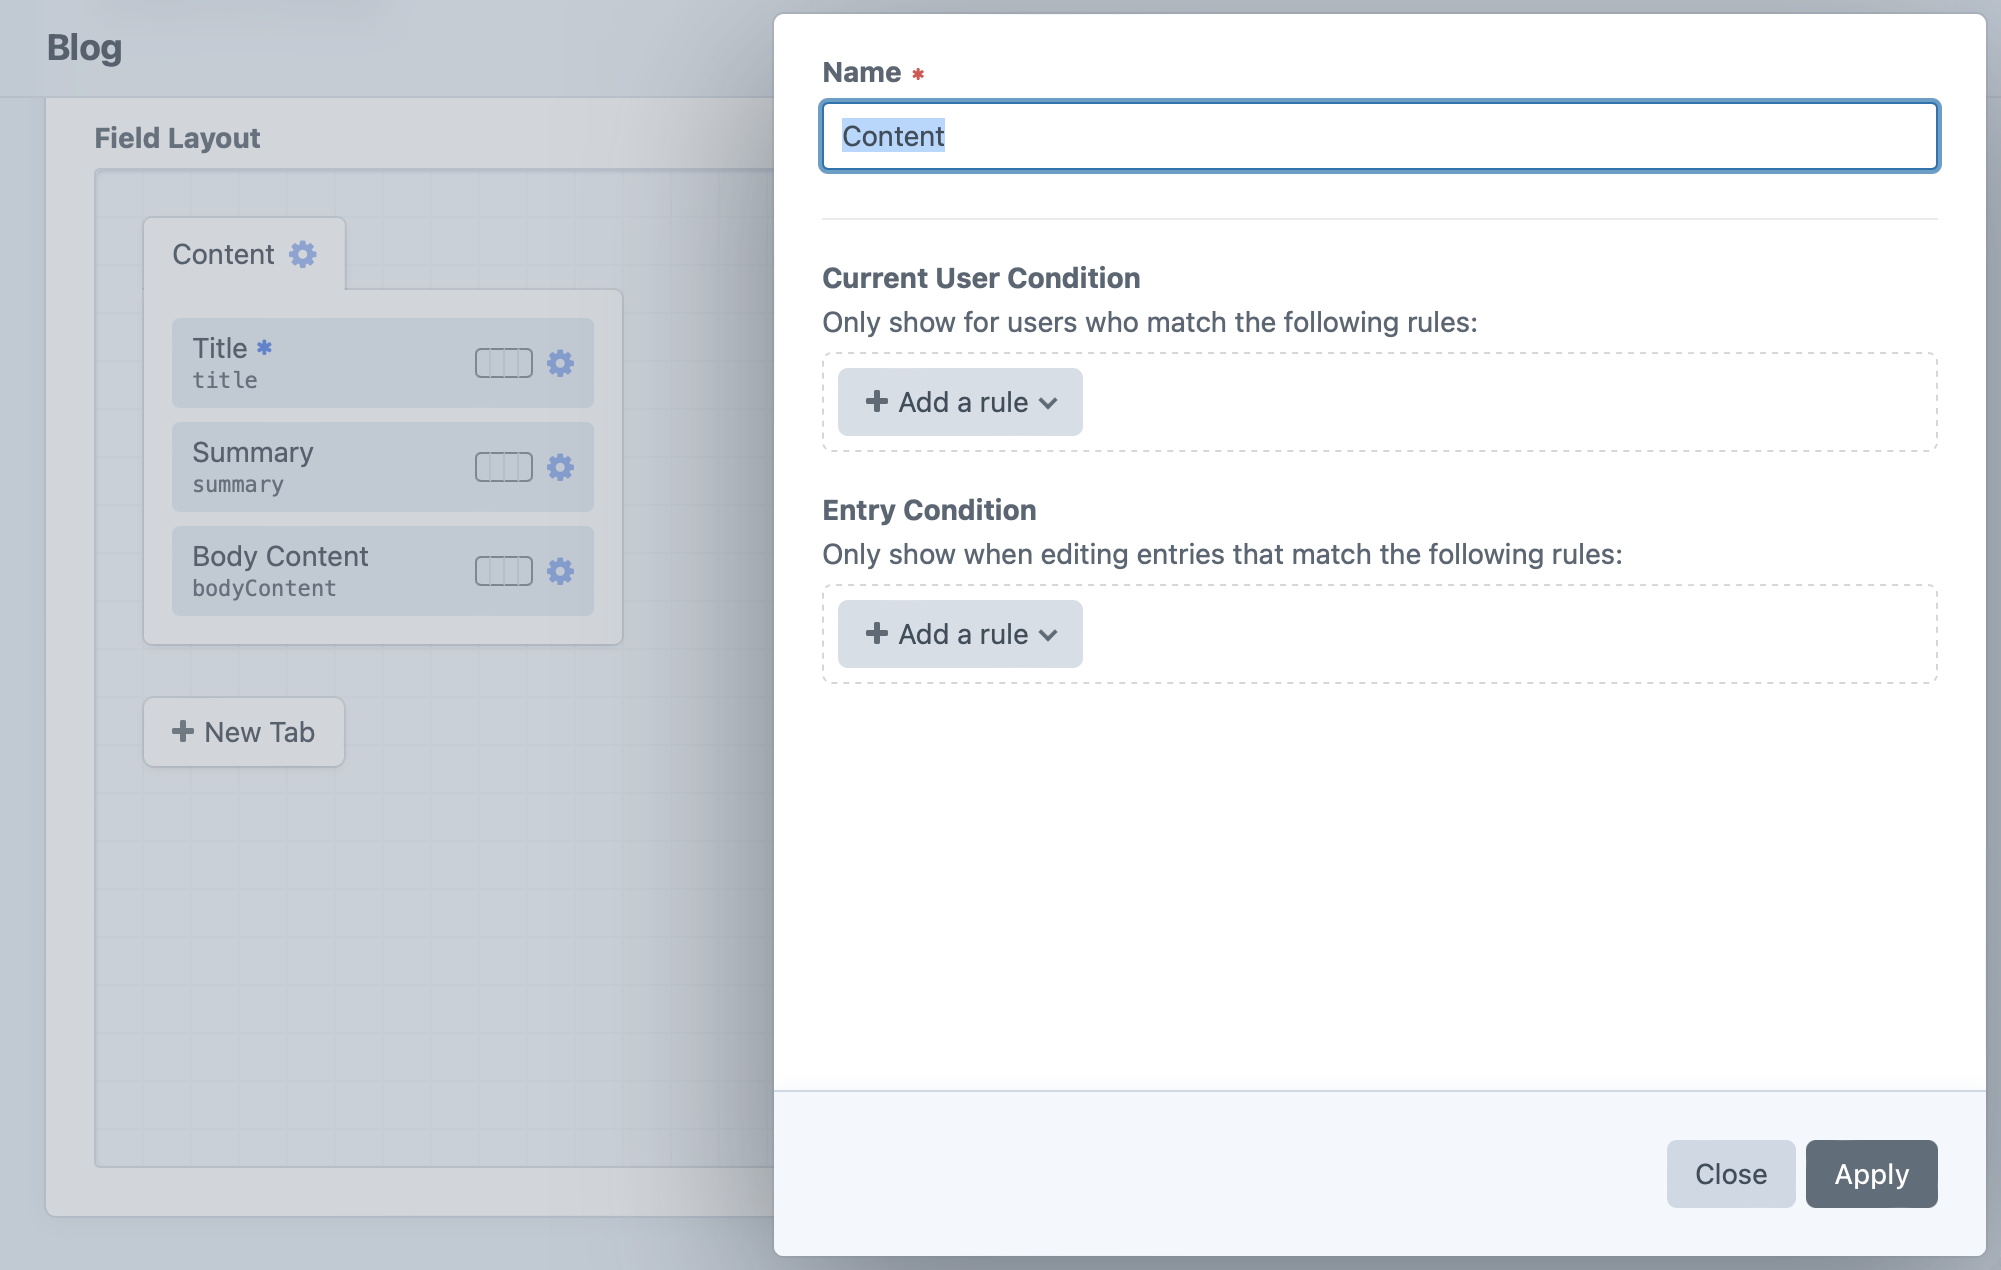
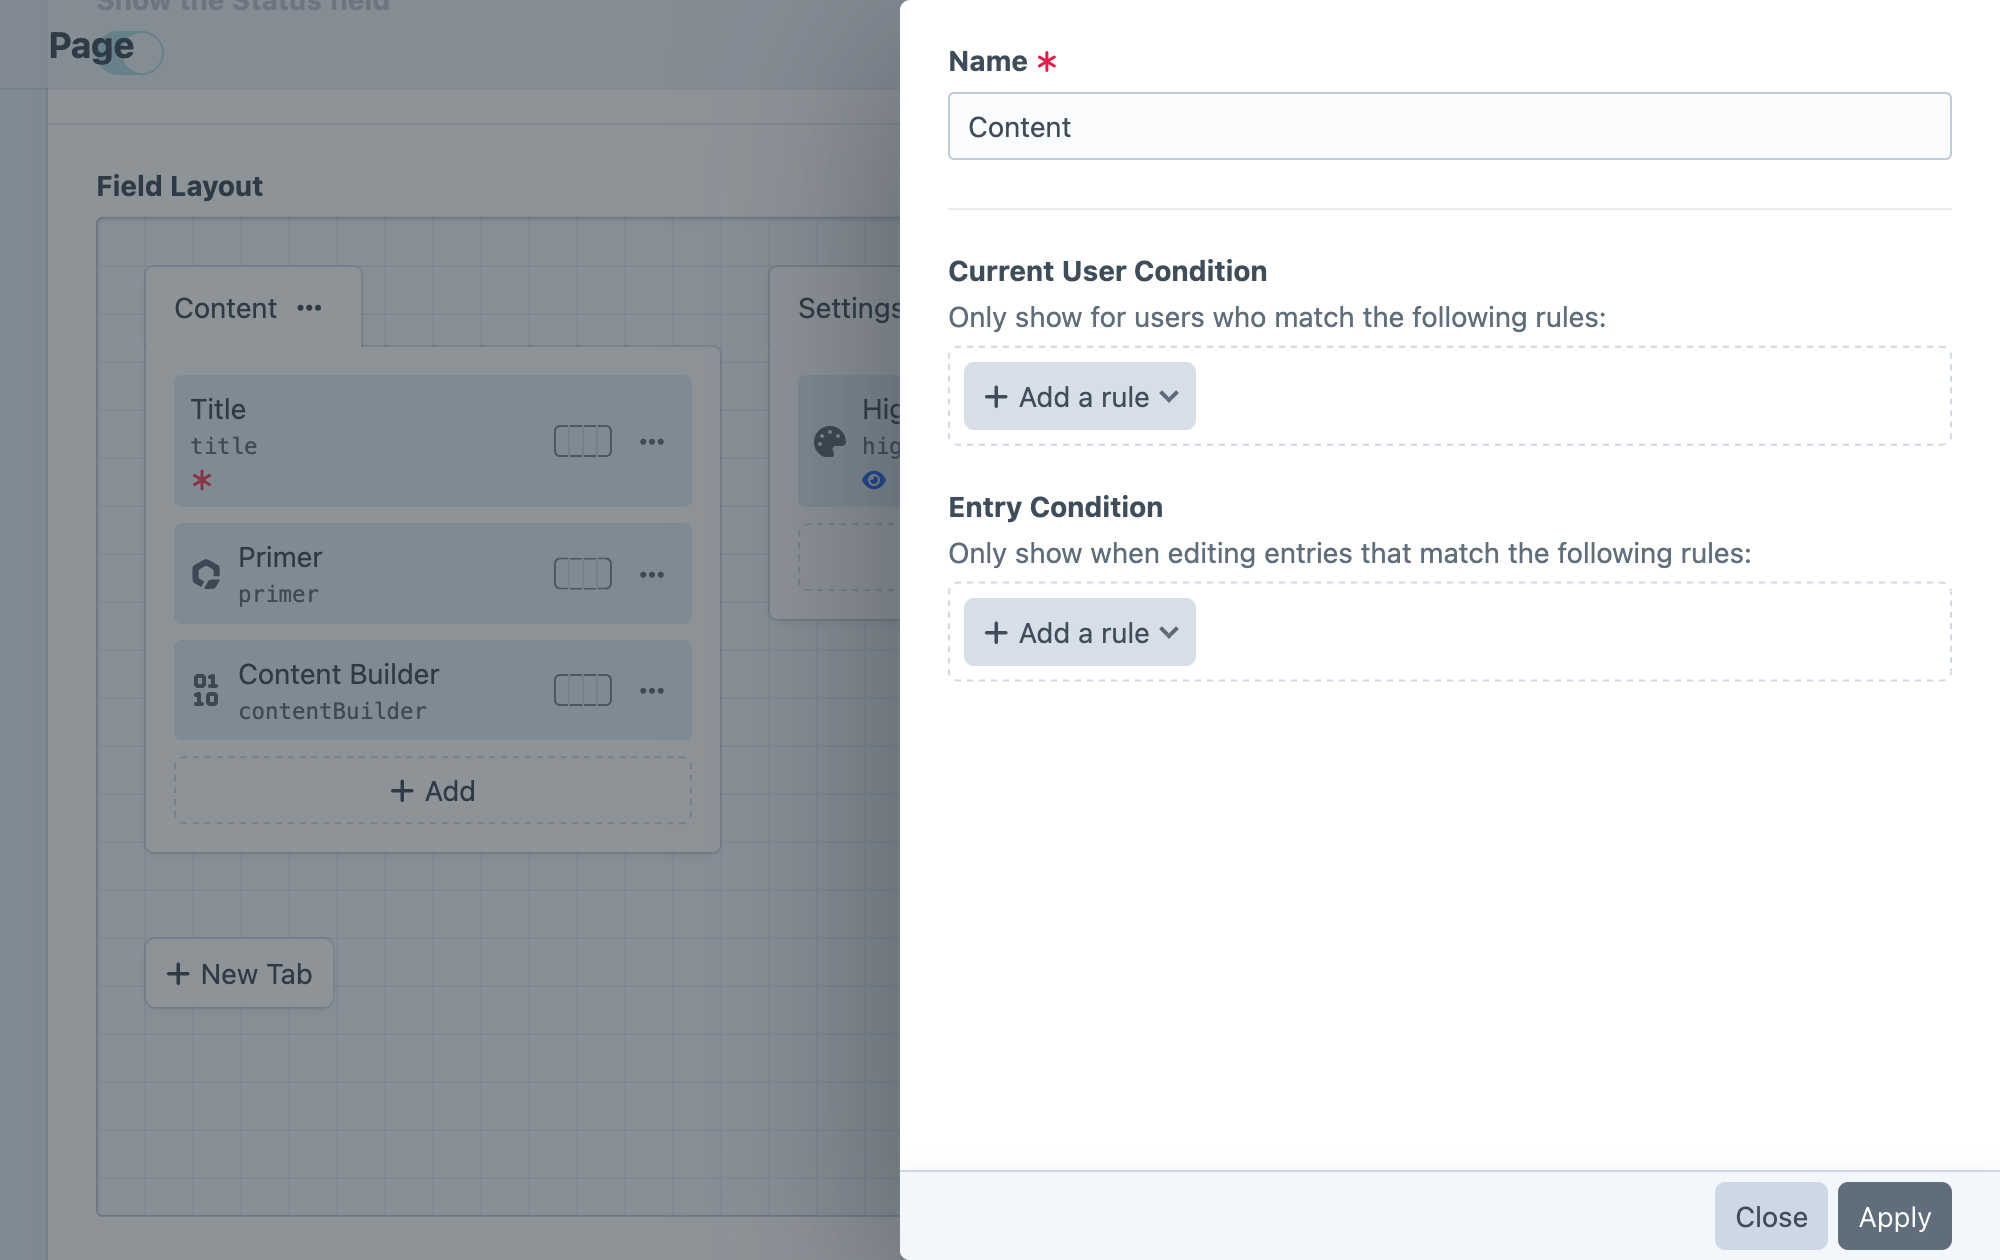
5.6: Field layout and card designer improvements

diff --git a/docs/5.x/system/fields.md b/docs/5.x/system/fields.md
@@ -8,9 +8,9 @@ sidebarDepth: 2
 
 # Custom Fields
 
-On their own, [elements](elements.md) only provide a scaffold for your content—the content itself will be stored in *fields*.
+On their own, [elements](elements.md) only provide a scaffold for your content—most of the content itself will be stored in *fields*.
 
-Fields are managed in **Settings** → **Fields**, and can be created on-the-fly from a [field layout](#field-layouts) designer. Field layouts and [conditions](#conditions) determine where and when your fields should appear for content authors.
+Fields are managed in <Journey path="Settings, Fields" />, and can be created on-the-fly from a [field layout](#field-layouts) designer. Field layouts and [conditions](#conditions) determine where and when your fields should appear for content authors.
 
 ## Field Types
 
@@ -28,7 +28,7 @@ Choosing a field type determines what the field’s input UI is going to look l
 <img src="../images/fields-new.png" alt="Editing a field in the Craft control panel">
 </BrowserShot>
 
-Most field types share a few settings.
+Most field types share these core settings:
 
 Name
 :   The user-facing label for the field. This should identify the field reasonably well among other fields, and be descriptive enough for authors. _You can override this in a field layout._
@@ -63,7 +63,7 @@ Handles are used when accessing field data from code:
 </div>
 ```
 
-They’re also how you will [query by a field’s value](../development/element-queries.md#querying-with-custom-fields):
+They’re also how you [query by a field’s value](../development/element-queries.md#querying-with-custom-fields):
 
 ```twig
 {# Filter by the value of a lightswitch field: #}
@@ -76,7 +76,7 @@ Refer to each field type’s documentation for information about what kinds of d
 
 ### Translation Methods
 
-If you’re running a multi-site Craft installation, most of your fields will have a “Translation Method” setting (depending on their type).
+If you’re running a multi-site Craft installation, most of your fields will have a “Translation Method” setting.
 
 Fields can have the following translation method:
 
@@ -108,21 +108,30 @@ Everything in Craft that has content associated with it will expose a configurab
 - **[Users](../reference/element-types/users.md)** share a single field layout defined in **Settings** → **Users** → **User Fields**.
 - **[Addresses](../reference/element-types/addresses.md)** also share a field layout, which can be found alongside **Users** in **Settings** → **Users** → **Address Fields**.
 
-The field layout editor works the same way regardless of which content type you’re configuring:
+The field layout editor works roughly the same way, regardless of which element type you’re configuring:
 
-![Screenshot of an entry’s field layout editor, with a Content tab containing three fields and a sidebar menu with “Fields” and “UI Elements” items that can be placed in the field layout](../images/field-layout-editor.png)
+![Screenshot of an entry’s field layout editor, with a Content tab containing three fields and a sidebar menu with “Fields” and “UI Elements” items that can be placed in the field layout](../images/field-layout-designer.png)
+
+::: tip
+Fields and other element-specific attributes can also be added to [element cards](elements.md#chips--cards) using the [card designer](#card-designer).
+:::
 
 ### Tabs
 
-Every layout starts with a “Content” tab at the top. Add more tabs with the **New Tab** button, or update an existing tab by clicking its gear icon (<icon kind="settings" />) and selecting **Settings**. Drag and drop those tabs into whatever order you prefer—the first tab is selected by default when editing an entry.
+Every layout starts with a _Content_ tab. Add more tabs with the **New Tab** button, or update an existing tab by clicking its action button (<icon kind="ellipses" />) and selecting **Settings**. Drag and drop those tabs into whatever order you prefer—the first tab is selected by default when editing an entry.
 
 ::: tip
-If the field layout has only one tab (or only one tab is visible due to applied conditions), its fields will be displayed in the editor without the tab itself—so its name will not be visible until more tabs are added.
+When editing an element, if its field layout has only one tab (or only one tab is visible due to applied conditions), the fields within it will be displayed _without_ the tab or tab bar. Its name will not be visible until there are at least two tabs.
 :::
 
 A tab’s settings include its name and optional conditions that determine when it will be displayed for editors:
 
-![Screenshot of field layout editor with “Content” tab settings open in a slideout: Name, Current User Condition, and Entry Condition](../images/field-layout-tab-settings.png)
+<BrowserShot
+  url="https://my-project.tld/admin/settings/entry-types/42"
+  :link="false"
+  caption="Updating a tab’s settings in the field layout designer.">
+<img src="../images/field-layout-tab-settings.png" alt="Screenshot of field layout editor with “Content” tab settings open in a slideout: Name, Current User Condition, and Entry Condition">
+</BrowserShot>
 
 - **Name** – the label displayed for the tab when it’s visible in the editor.
 - **Current User Condition** – optional rules for determining which users should see the tab in the editor. (When the tab is not displayed, its fields are hidden regardless of their individual conditions.)
@@ -130,17 +139,28 @@ A tab’s settings include its name and optional conditions that determine when 
 
 ### Field Layout Elements
 
-Add however many fields you’d like to each tab, dragging them into your desired order. Most layouts include at least a **Title** field by default—even if it’s marked as _hidden_. Any available fields and UI elements will be available at the right edge of the layout designer, where you can drag them from the sidebar into your field layout. You can move fields back to the sidebar and out of your field layout (unless they’re _mandatory_ fields for the element type), but take care not to remove any fields already being used for important content.
+Add fields to any tab using the **+ Add** button, then dragging them into the desired order. Most layouts include at least a **Title** field by default—even if it’s marked as _hidden_. To remove a field, select **Remove** from its action <Icon kind="ellipses" /> menu. Some field layout elements are designated as _mandatory_ by an element type, meaning they cannot be removed from its field layout.
 
-By default, each field will be displayed at the full width (100%) of its tab. You can use the field width control, however, to designate a column size. This can be 25%, 50%, 75% or the default 100% width. Fields can appear side by side as long as the content editor’s browser window is wide enough. On small screens, fields may be shown at full width.
+::: warning
+Take care when removing a field from a layout: Craft stores field content using each instance’s UID. _Re-adding a field (whether or not it uses the same handle) will give it a new UID, meaning it will no longer be associated with existing content!_ By relegating these changes to a development environment, your live data is typically insulated from major loss—if you do mistakenly remove a field, you can always roll back the corresponding [project config](project-config.md) changes via git before deploying.
 
-Click the gear icon (<icon kind="settings" />) next to a field to open a slideout with its settings:
+Moving field layout elements between tabs, however, is nondestructive.
+:::
 
-![Screenshot of field layout editor with “Summary” field settings open in a slideout: Required, Label, Instructions, Current User Condition, and Entry Condition](../images/field-slideout.png)
+By default, each field will be displayed at the full width (100%) of its tab. Use the field width control to adjust this in increments of 25%. Fields can appear side by side as long as the content editor’s browser window is wide enough. On narrow screens, fields may be shown at full width, even if they are configured differently.
+
+Click the action button (<icon kind="ellipses" />) next to a field and select **Instance settings** to open a slideout with its settings:
+
+<BrowserShot
+  url="https://my-project.tld/admin/settings/entry-types/42"
+  :link="false"
+  caption="Customizing a field instance within a field layout.">
+<img src="../images/field-layout-instance-settings.png" alt="Screenshot of field layout editor with “Summary” field instance settings open in a slideout: Required, Label, Instructions, Current User Condition, and Entry Condition">
+</BrowserShot>
 
 The field’s settings let you control how and when it’s displayed:
 
-- **Label** – Override the field’s default label.
+- **Label** – Override the field’s default label, or hide it entirely.
 - **Handle** – Override the field’s handle.
 - **Instructions** – Override the field’s default instructions.
 - **Current User Condition** – Set rules for determining which users can see the field and change its value.
@@ -153,7 +173,7 @@ The field’s settings let you control how and when it’s displayed:
 Only one field can be used as an element’s thumbnail at a time.
 :::
 
-Some field layout elements’ settings are bubbled up to the layout designer, beside the field’s name:
+Some field layout elements’ settings are bubbled up to the layout designer as _indicators_, beside the field’s name:
 
 - An _asterisk_ (<icon kind="asterisk" />) means the field is **Required**.
 - A _diamond_ means that it has been assigned one or more user or element [condition rules](#conditions).
@@ -161,9 +181,11 @@ Some field layout elements’ settings are bubbled up to the layout designer, be
 - An _eye_ means the field will appear in element cards.
 - A _pencil_ icon indicates that the field contains overridden settings.
 
+You can also edit the original field’s configuration by selecting **Edit global field settings** from its action menu.
+
 ### Multi-Instance Fields <Badge text="New!" />
 
-Most fields can be added to a single layout multiple times. Craft will automatically assign a new handle to fields that are used more than once in a layout. To customize a field’s handle for a given layout, click the settings <icon kind="gear" /> icon on the field layout element and change the **Handle** setting.
+Most fields can be added to a single layout multiple times. Craft will automatically assign a new handle to fields that are used more than once in a layout. To customize a field’s handle for a given layout, click its action button (<Icon kind="ellipses" />) and select **Instance settings** slideout, then look for the **Handle** field.
 
 Multi-instance fields behave as though they were entirely different fields, in almost every situation: templates, element queries, condition builders, search, and so on. The field layout will retain a reference to the underlying field, so any settings updated for the base field will be reflected on each instance. For example, a [plain text](../reference/field-types/plain-text.md) field named “Attribution” could be used two (or more) times in a single entry type’s field layout: once for an article “Byline,” then again as “Photo Credit.” In a template, you would use those fields exactly like any other field:
 
@@ -216,18 +238,30 @@ Any fields (or [tabs](#tabs)) that have a **Current User Condition** or **Elemen
 Conditions determine when (and to whom) a field or tab is displayed and validated. You can create sophisticated editorial processes by exposing parts of the authoring interface only when specific criteria are met.
 
 ::: warning
-Conditions are not intended as a complete substitute for [permissions](user-management.md#permissions)! It’s still important to configure sensible base permissions for your editors.
+Conditions are not intended as a substitute for [permissions](user-management.md#permissions)! It’s still important to configure sensible base permissions for your editors.
 :::
 
 ### UI Elements
 
-Switch to the **UI Elements** tab at the right edge of the screen (replacing the **Fields** browser) to add special field layout elements.
+Switch to the **UI Elements** tab in the **New field** popover to add special field layout elements:
 
 - **Heading** — Create a label that splits up form inputs, within a tab.
-- **Tip** & **Warning** — Display a message with the corresponding urgency. Equivalent, except in visual design.
+- **Tip** + **Warning** — Display a message with the corresponding urgency. Equivalent, except in visual design.
 - **Template** — Render a Twig template from your [`templates/` directory](directory-structure.md#templates). The template will receive the element being edited under an `element` variable.
 - **Horizontal Rule** — A thin divider line. Subsequent fields will start in a new row.
 - **Line Break** — An invisible element that ensures the next field is rendered in a new row.
-- **Markdown** — Renders a multi-line Markdown snippet.
+- **Markdown** — Renders a multi-line Markdown snippet. HTML is encoded prior to parsing as Markdown; if you want to add arbitrary HTML, use the **Template** UI element.
 
 In addition to their own options (accessible via their <Icon kind="ellipses" /> action menu), most field layout UI elements share regular fields’ [condition](#conditions) settings.
+
+### Card Designer <Since ver="5.5.0" feature="Customizable card attributes" />
+
+Below the field layout designer, you can add previews of field and attribute data to the [card](elements.md#chips-cards) representation of that element. Note that values that appear in the card preview do not represent the content of any specific element.
+
+![Screenshot of an element card preview within a field layout designer.](../images/element-card-preview.png)
+
+#### Thumbnails
+
+Card thumbnails are assigned using the main field layout designer. Select **Use for element thumbnails** from the action <Icon kind="ellipses" /> menu of any [relational field](relations.md) to display the first attached asset—or, when using a non-asset relational field, _that_ element’s thumbnail!
+
+Only one field can be used as the thumbnail source at a time. Additional asset fields’ values can be displayed in the card body, as chips.
